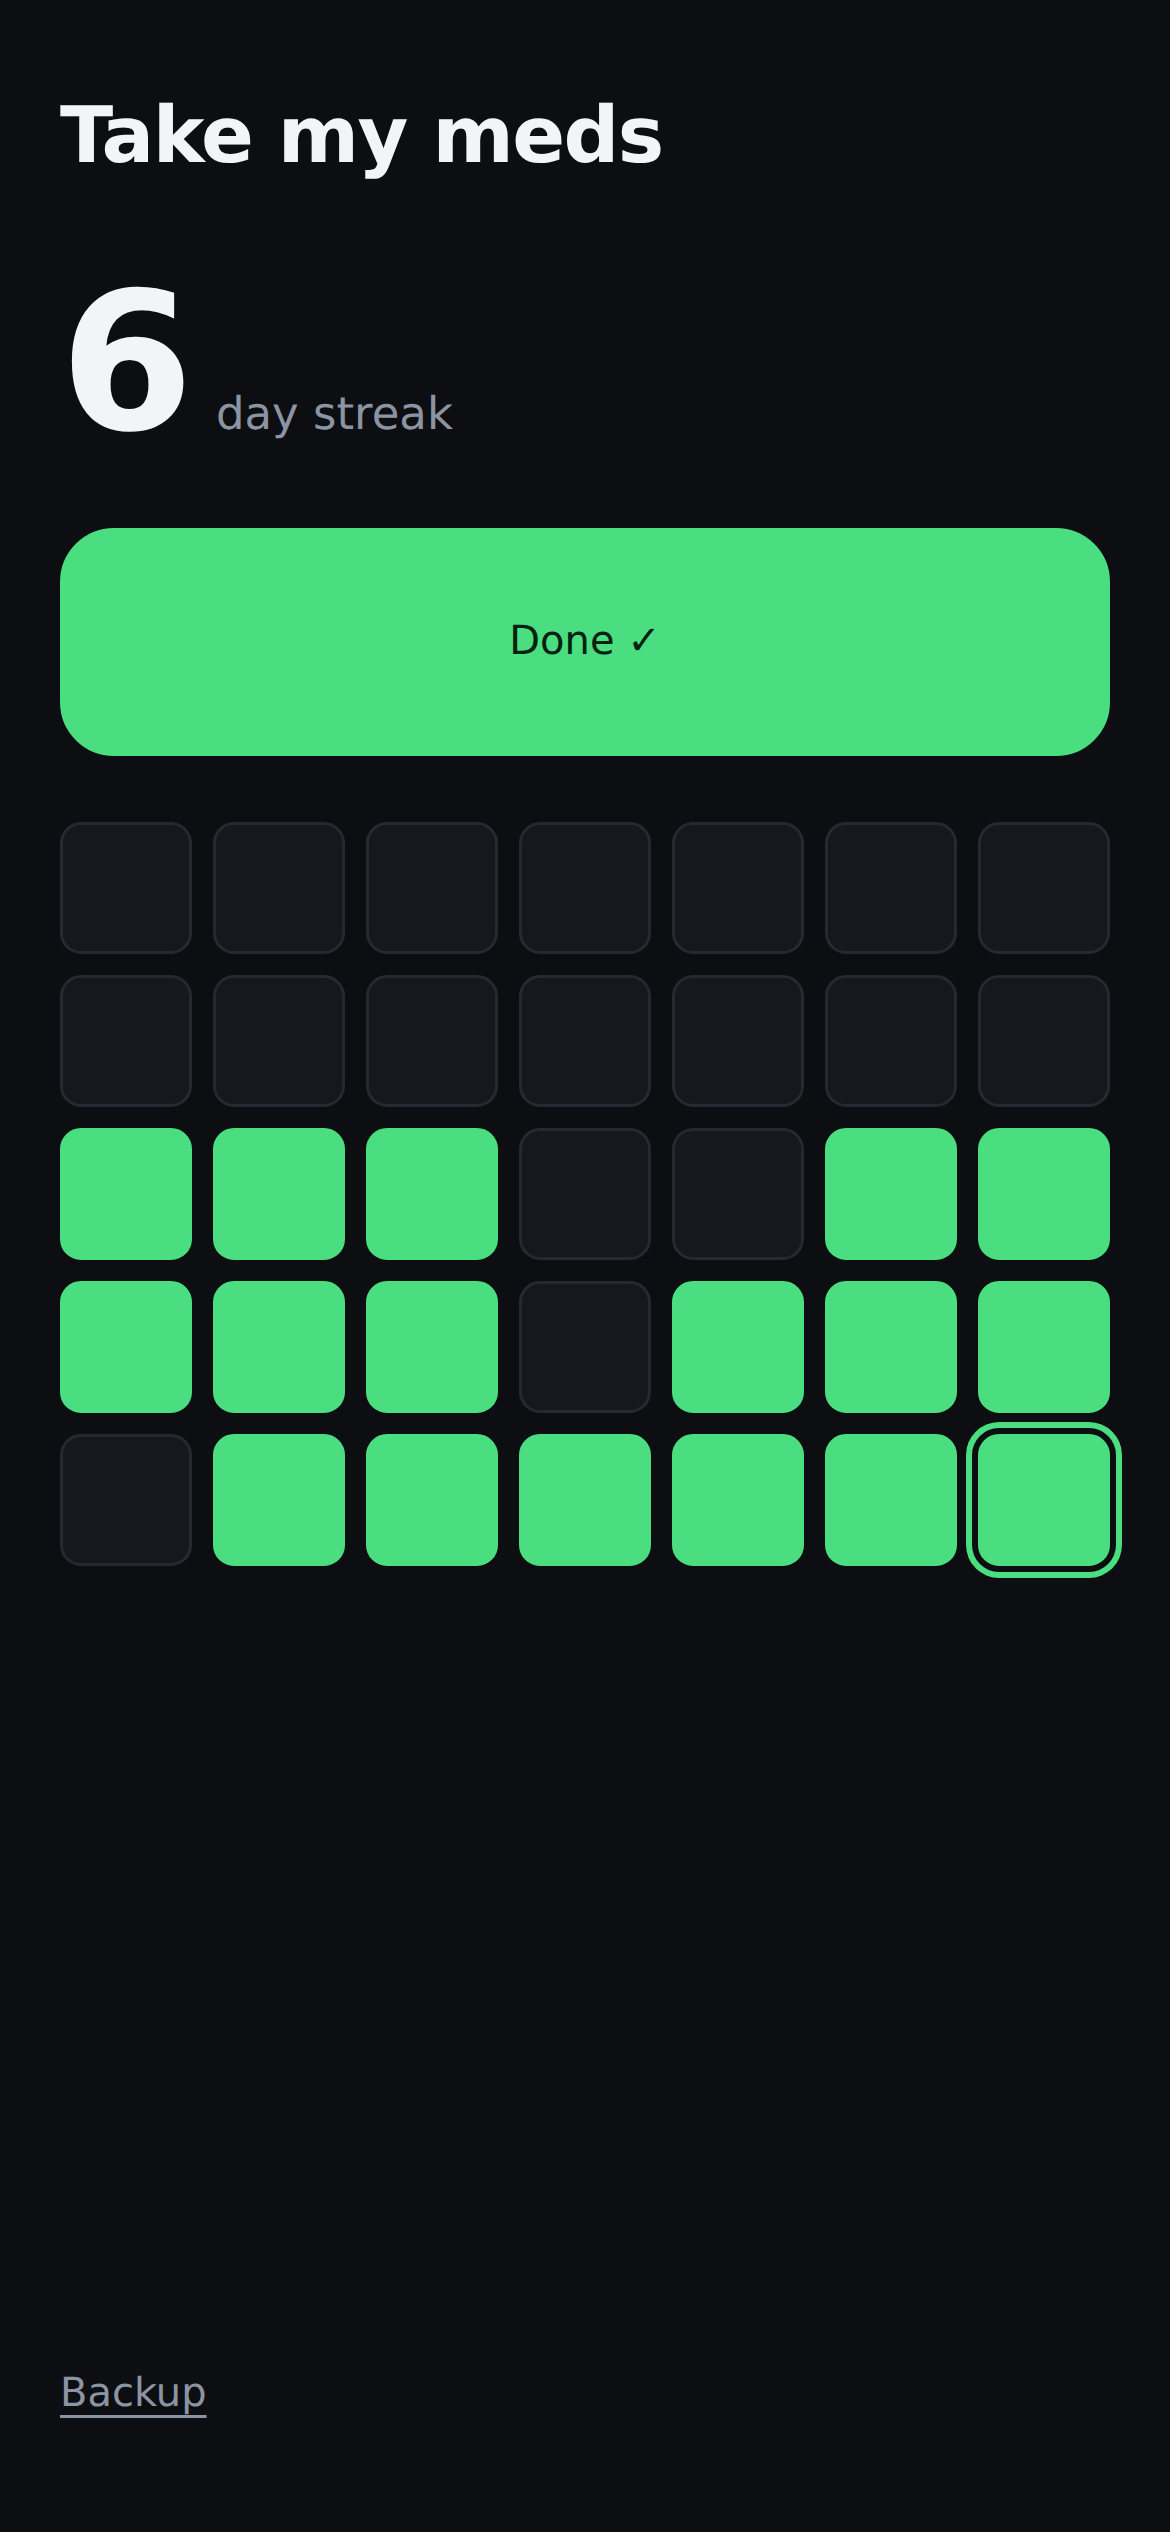
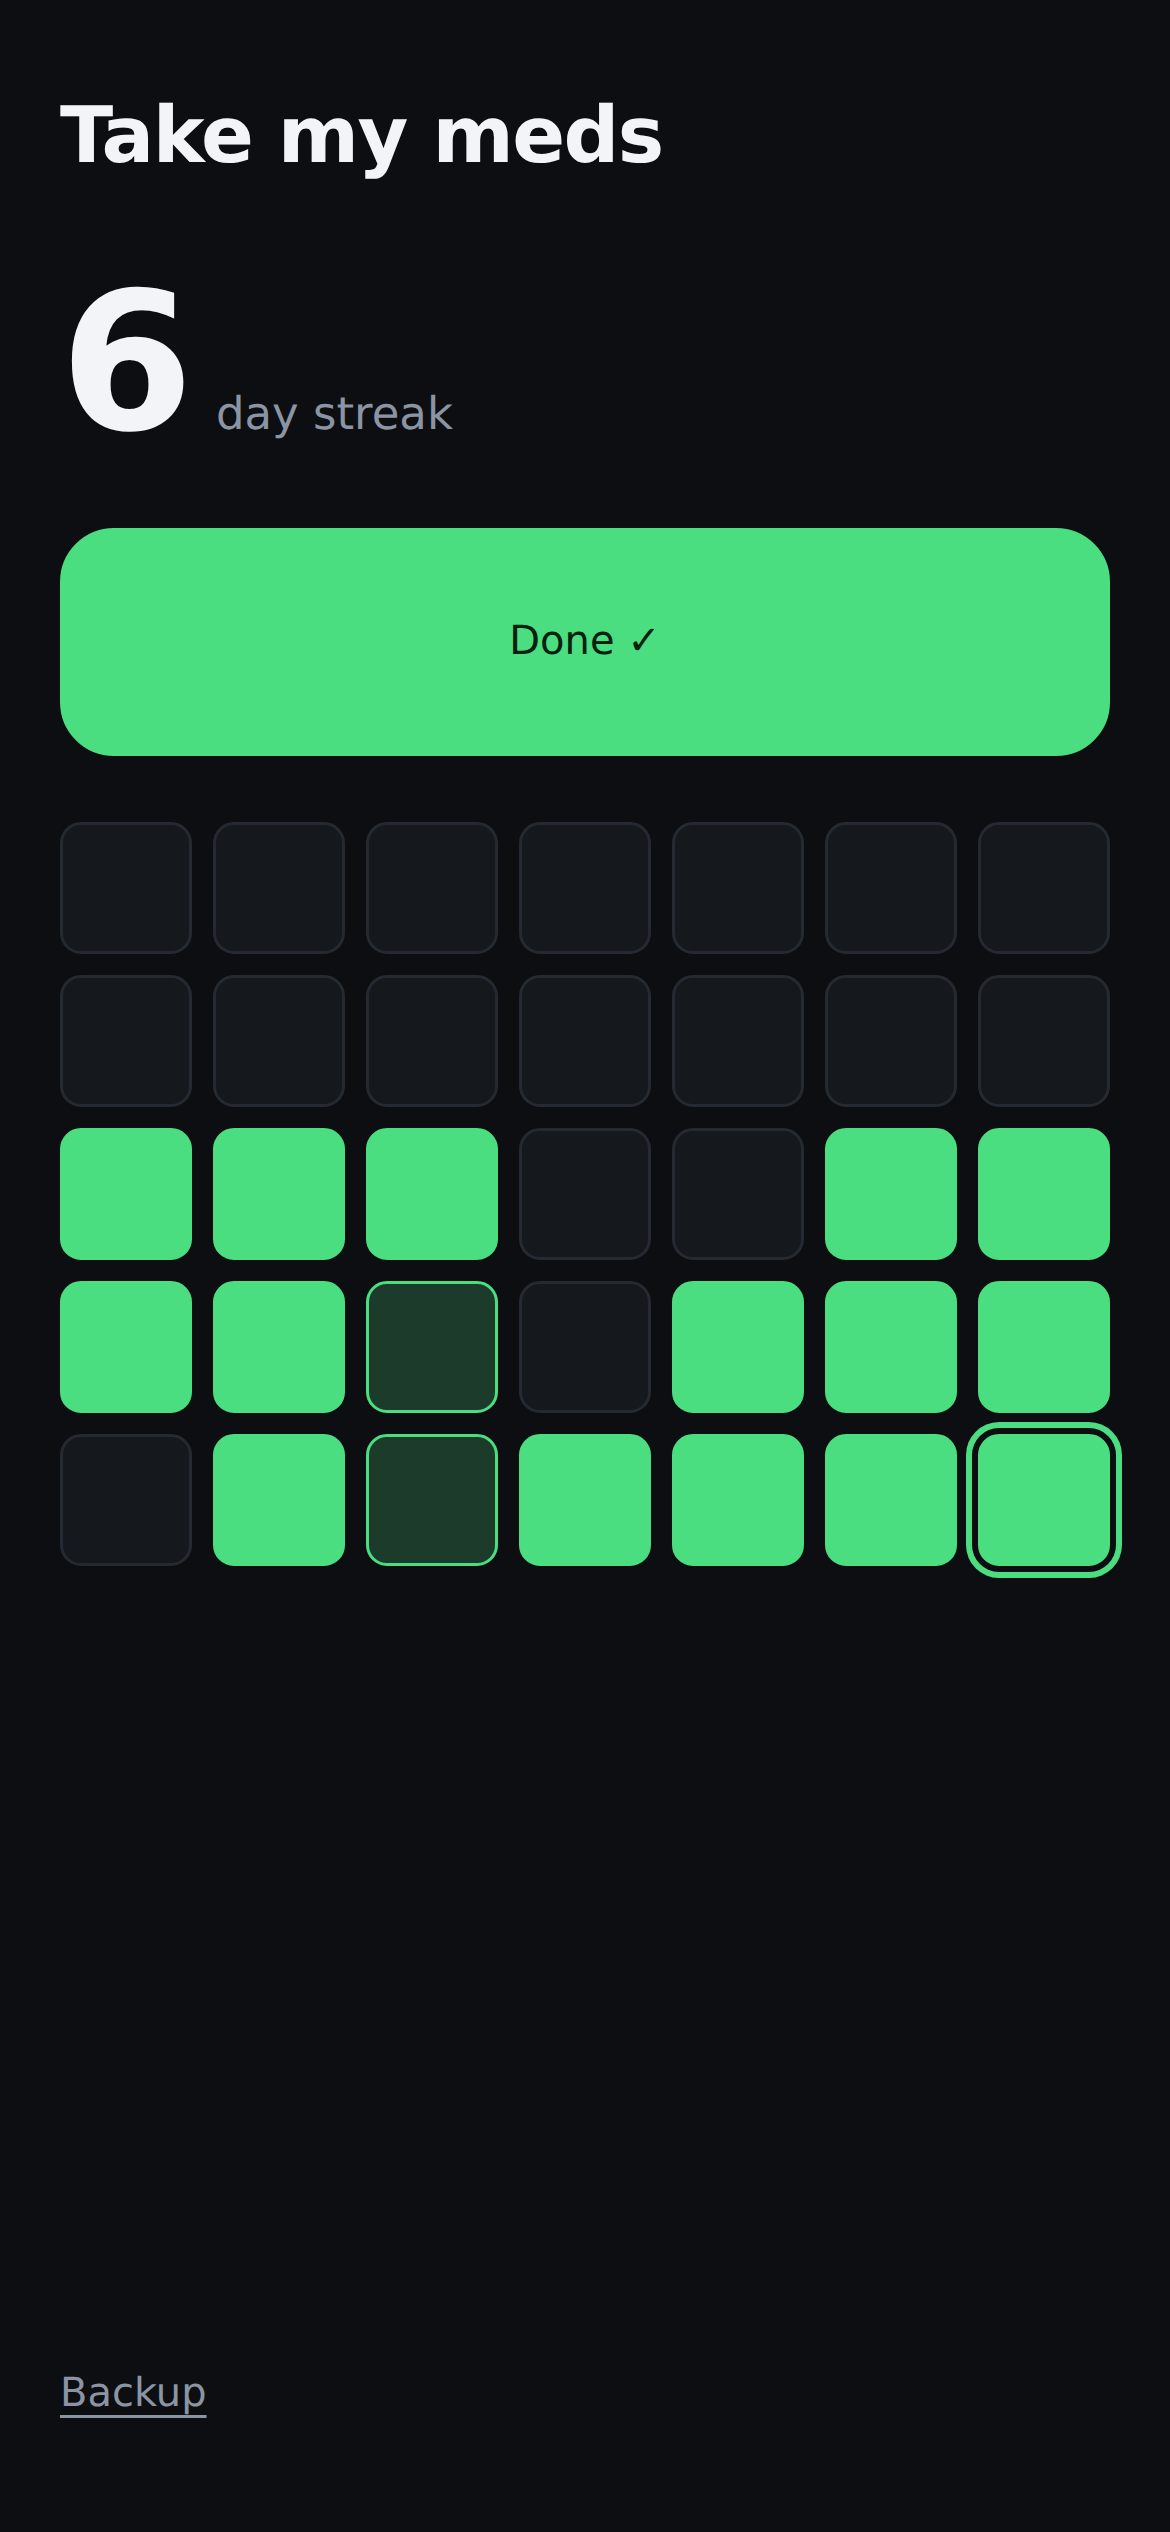
v2: add the two-minute gateway tap
A smaller "Just 2 minutes" button under the main one. Tapping it marks the
day lite (dim green in the grid) and keeps the streak alive; a full tap
upgrades a lite day. The button hides once the full habit is done.

Backups from v1 (no lite key) still restore cleanly, and check_app.py now
verifies the lite flow: mark, reload-survives, upgrade.

Claude-Session: https://claude.ai/code/session_01NZVHq3jp6WMcWvBAAjeUpf

Changed region(s): [[0.3077, 0.4992, 0.4308, 0.624]]

diff --git a/app/index.html b/app/index.html
@@ -47,12 +47,21 @@
   }
   #doneBtn:active{transform:scale(.98)}
   #doneBtn.on{background:var(--on);border-color:var(--on);color:#06210f}
+  #liteBtn{
+    width:100%;min-height:48px;border-radius:14px;
+    border:1px dashed var(--line);background:none;color:var(--dim);
+    font:500 15px/1 inherit;font-family:inherit;
+    transition:transform .08s ease,background .15s ease,border-color .15s ease;
+  }
+  #liteBtn:active{transform:scale(.98)}
+  #liteBtn.on{background:var(--on-dim);border:1px solid var(--on);color:var(--on)}
   #grid{display:grid;grid-template-columns:repeat(7,1fr);gap:7px}
   .cell{
     aspect-ratio:1;border-radius:7px;
     background:var(--card);border:1px solid var(--line);
   }
   .cell.on{background:var(--on);border-color:var(--on)}
+  .cell.lite{background:var(--on-dim);border-color:var(--on)}
   .cell.today{box-shadow:0 0 0 2px var(--bg),0 0 0 4px var(--dim)}
   .cell.today.on{box-shadow:0 0 0 2px var(--bg),0 0 0 4px var(--on)}
   footer{margin-top:auto;padding-top:14px}
@@ -84,6 +93,7 @@
 </div>
 
 <button id="doneBtn" type="button">Done today</button>
+<button id="liteBtn" type="button">Just 2 minutes</button>
 
 <div id="grid" aria-label="Last 35 days"></div>
 
@@ -123,12 +133,19 @@
     var data = null;
     try { data = JSON.parse(raw); } catch (e) { data = null; }
     if (!data || typeof data !== 'object') data = {};
+    function dates(list) {
+      return Array.isArray(list) ? list.filter(function (x) {
+        return typeof x === 'string' && /^\d{4}-\d{2}-\d{2}$/.test(x);
+      }) : [];
+    }
+    var days = dates(data.days);
+    // lite = days done via the two-minute version; v1 backups won't have it
+    var lite = dates(data.lite).filter(function (d) { return days.indexOf(d) === -1; });
     return {
       v: 1,
       name: typeof data.name === 'string' && data.name.trim() ? data.name : 'My habit',
-      days: Array.isArray(data.days) ? data.days.filter(function (x) {
-        return typeof x === 'string' && /^\d{4}-\d{2}-\d{2}$/.test(x);
-      }) : []
+      days: days,
+      lite: lite
     };
   }
 
@@ -140,7 +157,7 @@
 
   function streakOf(days) {
     var set = {};
-    days.forEach(function (d) { set[d] = true; });
+    days.forEach(function (d) { set[d] = true; }); // full and lite both keep the chain alive
     // Today not being done yet shouldn't read as a broken streak until tomorrow.
     var start = set[shift(0)] ? 0 : (set[shift(-1)] ? -1 : null);
     if (start === null) return 0;
@@ -155,6 +172,7 @@
   var streakEl = document.getElementById('streak');
   var labelEl = document.getElementById('streakLabel');
   var btn = document.getElementById('doneBtn');
+  var liteBtn = document.getElementById('liteBtn');
   var grid = document.getElementById('grid');
   var backup = document.getElementById('backup');
   var backupText = document.getElementById('backupText');
@@ -171,25 +189,46 @@
   }
 
   function render() {
-    var set = {};
-    state.days.forEach(function (d) { set[d] = true; });
-    var doneToday = !!set[today()];
+    var full = {}, lite = {};
+    state.days.forEach(function (d) { full[d] = true; });
+    state.lite.forEach(function (d) { lite[d] = true; });
+    var t = today();
 
     nameEl.value = state.name;
-    cells.forEach(function (c) { c.classList.toggle('on', !!set[c.dataset.date]); });
-    btn.classList.toggle('on', doneToday);
-    btn.textContent = doneToday ? 'Done ✓' : 'Done today';
+    cells.forEach(function (c) {
+      c.classList.toggle('on', !!full[c.dataset.date]);
+      c.classList.toggle('lite', !!lite[c.dataset.date]);
+    });
+    btn.classList.toggle('on', !!full[t]);
+    btn.textContent = full[t] ? 'Done ✓' : 'Done today';
+    liteBtn.classList.toggle('on', !!lite[t]);
+    liteBtn.textContent = lite[t] ? '2 minutes counts ✓' : 'Just 2 minutes';
+    liteBtn.hidden = !!full[t]; // full day done -- no smaller ask needed
 
-    var n = streakOf(state.days);
+    var n = streakOf(state.days.concat(state.lite));
     streakEl.textContent = n;
     labelEl.textContent = n === 1 ? 'day streak' : 'day streak';
     backupText.value = JSON.stringify(state);
   }
 
+  function remove(list, x) {
+    var i = list.indexOf(x);
+    if (i !== -1) list.splice(i, 1);
+    return i !== -1;
+  }
+
   btn.addEventListener('click', function () {
     var t = today();
-    var i = state.days.indexOf(t);
-    if (i === -1) state.days.push(t); else state.days.splice(i, 1); // mis-taps are undoable
+    var wasFull = remove(state.days, t); // mis-taps are undoable
+    remove(state.lite, t);               // a full tap upgrades a lite day
+    if (!wasFull) state.days.push(t);
+    save(state);
+    render();
+  });
+
+  liteBtn.addEventListener('click', function () {
+    var t = today();
+    if (!remove(state.lite, t)) state.lite.push(t);
     save(state);
     render();
   });

diff --git a/.claude/skills/atomic-habits-app/scripts/check_app.py b/.claude/skills/atomic-habits-app/scripts/check_app.py
@@ -109,6 +109,24 @@ def main():
         check("today is STILL marked after a reload (the chain survives)",
               "on" in (page.locator(cell).get_attribute("class") or ""))
 
+        # v2: the two-minute gateway must also keep the chain alive.
+        page.locator("#doneBtn").click()  # clear today back to empty
+        check("two-minute button is visible when today is empty",
+              page.locator("#liteBtn").is_visible())
+        page.locator("#liteBtn").click()
+        check("two-minute tap marks today as lite",
+              "lite" in (page.locator(cell).get_attribute("class") or ""))
+        check("two-minute tap keeps the streak alive",
+              (page.locator("#streak").inner_text().strip() or "0") != "0")
+        page.reload()
+        page.wait_for_selector("#doneBtn")
+        check("lite day survives a reload",
+              "lite" in (page.locator(cell).get_attribute("class") or ""))
+        page.locator("#doneBtn").click()
+        check("a full tap upgrades a lite day to full",
+              "on" in (page.locator(cell).get_attribute("class") or "")
+              and "lite" not in (page.locator(cell).get_attribute("class") or ""))
+
         # The backup text is her escape hatch if the phone ever loses the data.
         page.locator("#backupToggle").click()
         check("backup contains today's date",
@@ -122,10 +140,14 @@ def main():
               const d = new Date(); d.setHours(12,0,0,0);
               const ymd = x => x.toISOString().slice(0,10);
               const days = [];
-              for (const back of [0,1,2,3,4,5,7,8,9,11,12,13,14,15,18,19,20]) {
+              for (const back of [0,1,2,3,5,7,8,9,12,13,14,15,18,19,20]) {
                 const c = new Date(d); c.setDate(c.getDate() - back); days.push(ymd(c));
               }
-              localStorage.setItem('chain.v1', JSON.stringify({v:1, name:'Take my meds', days}));
+              const lite = [];
+              for (const back of [4,11]) {
+                const c = new Date(d); c.setDate(c.getDate() - back); lite.push(ymd(c));
+              }
+              localStorage.setItem('chain.v1', JSON.stringify({v:1, name:'Take my meds', days, lite}));
             }"""
         )
         page.reload()

diff --git a/app/CHANGELOG.md b/app/CHANGELOG.md
@@ -5,3 +5,4 @@ One line per session. Read this first — it's where the last session left off.
 Format: `date · what shipped · next rung`
 
 - **2026-08-01** · v1: one habit, one tap, 35-day chain grid, saved on the phone, backup/restore · next: v2 two-minute version
+- **2026-08-01** · v2: "Just 2 minutes" gateway tap — lite days show dim green, keep the streak alive, and a full tap upgrades them · next: v3 habit stacking
